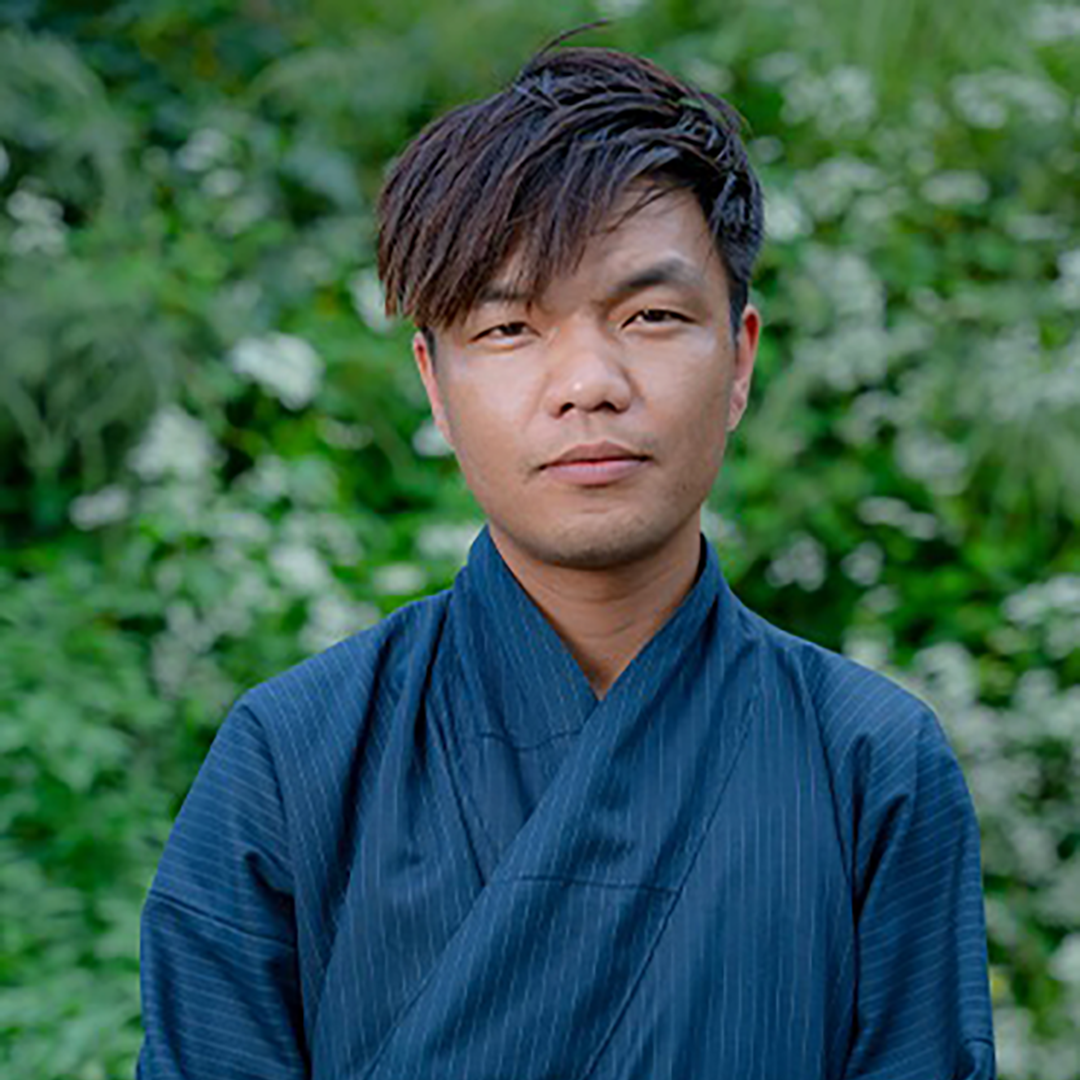
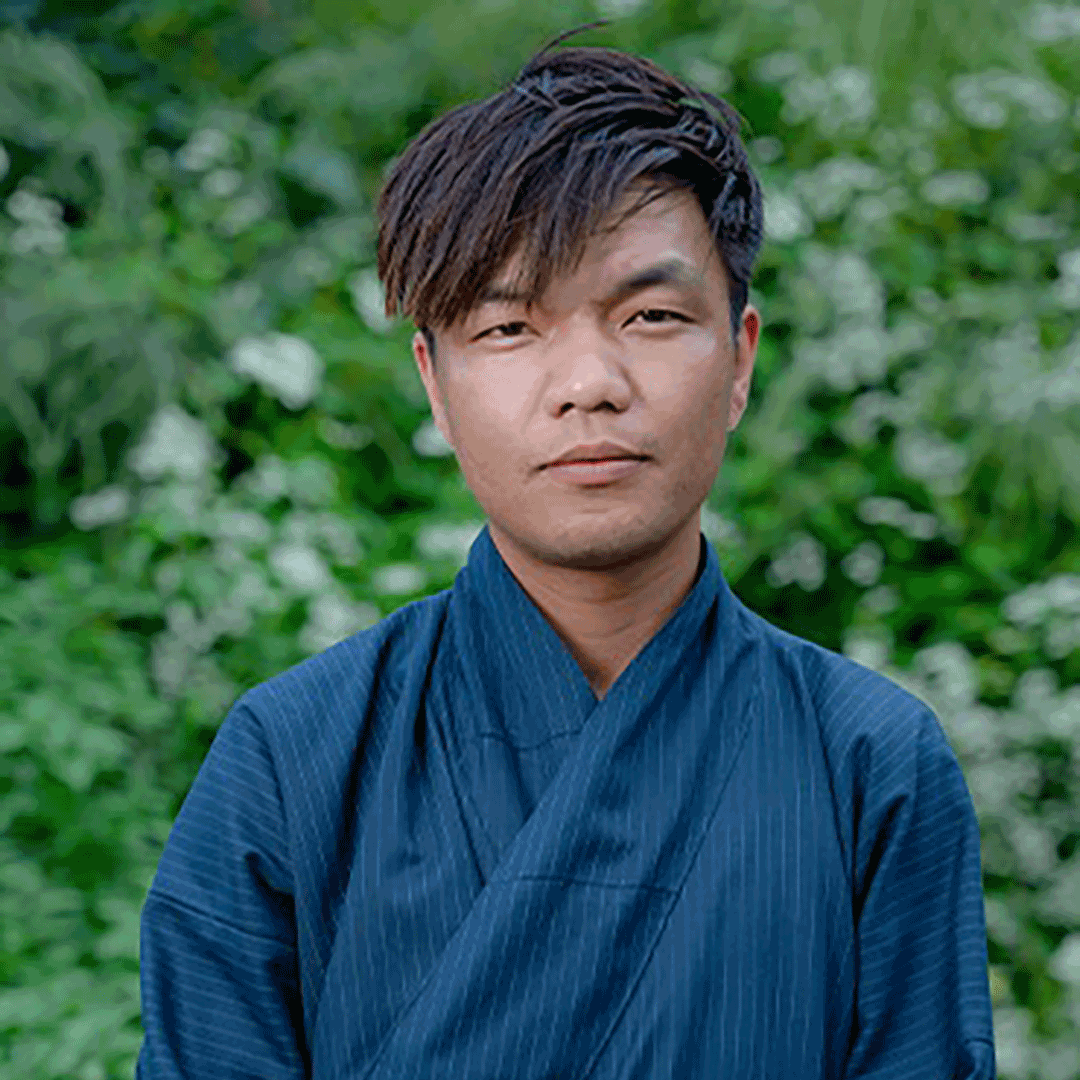
update

diff --git a/index.html b/index.html
@@ -289,7 +289,7 @@
 				</div><!--/.single-team-box-->
 				<div class="single-team-box">
 					<div class="team-img">
-						<img src="assets/images/team/cheku.jpeg" alt="clients">
+						<img src="assets/images/team/cheku.png" alt="clients">
 					</div><!--/.team-img-->
 					<div class="team-description">
 						<div class="team-comment">
@@ -315,7 +315,7 @@
 								<h4>Software Developer</h4>
 							</div>
 							<p>
-								Determinant . Creativity . Adaptive </p>
+								Determinant . Creative . Adaptive </p>
 						</div><!--/.team-comment-->
 					</div><!--/.team-description-->
 				</div><!--/.single-team-box-->

diff --git a/assets/css/bootsnav.css b/assets/css/bootsnav.css
@@ -55,7 +55,7 @@ nav.navbar.bootsnav ul.nav li.active>a {
 }
 
 nav.navbar.bootsnav .navbar-toggle {
-    background-color: #fff;
+    background-color: black;
     border: none;
     padding: 0;
     font-size: 18px;
